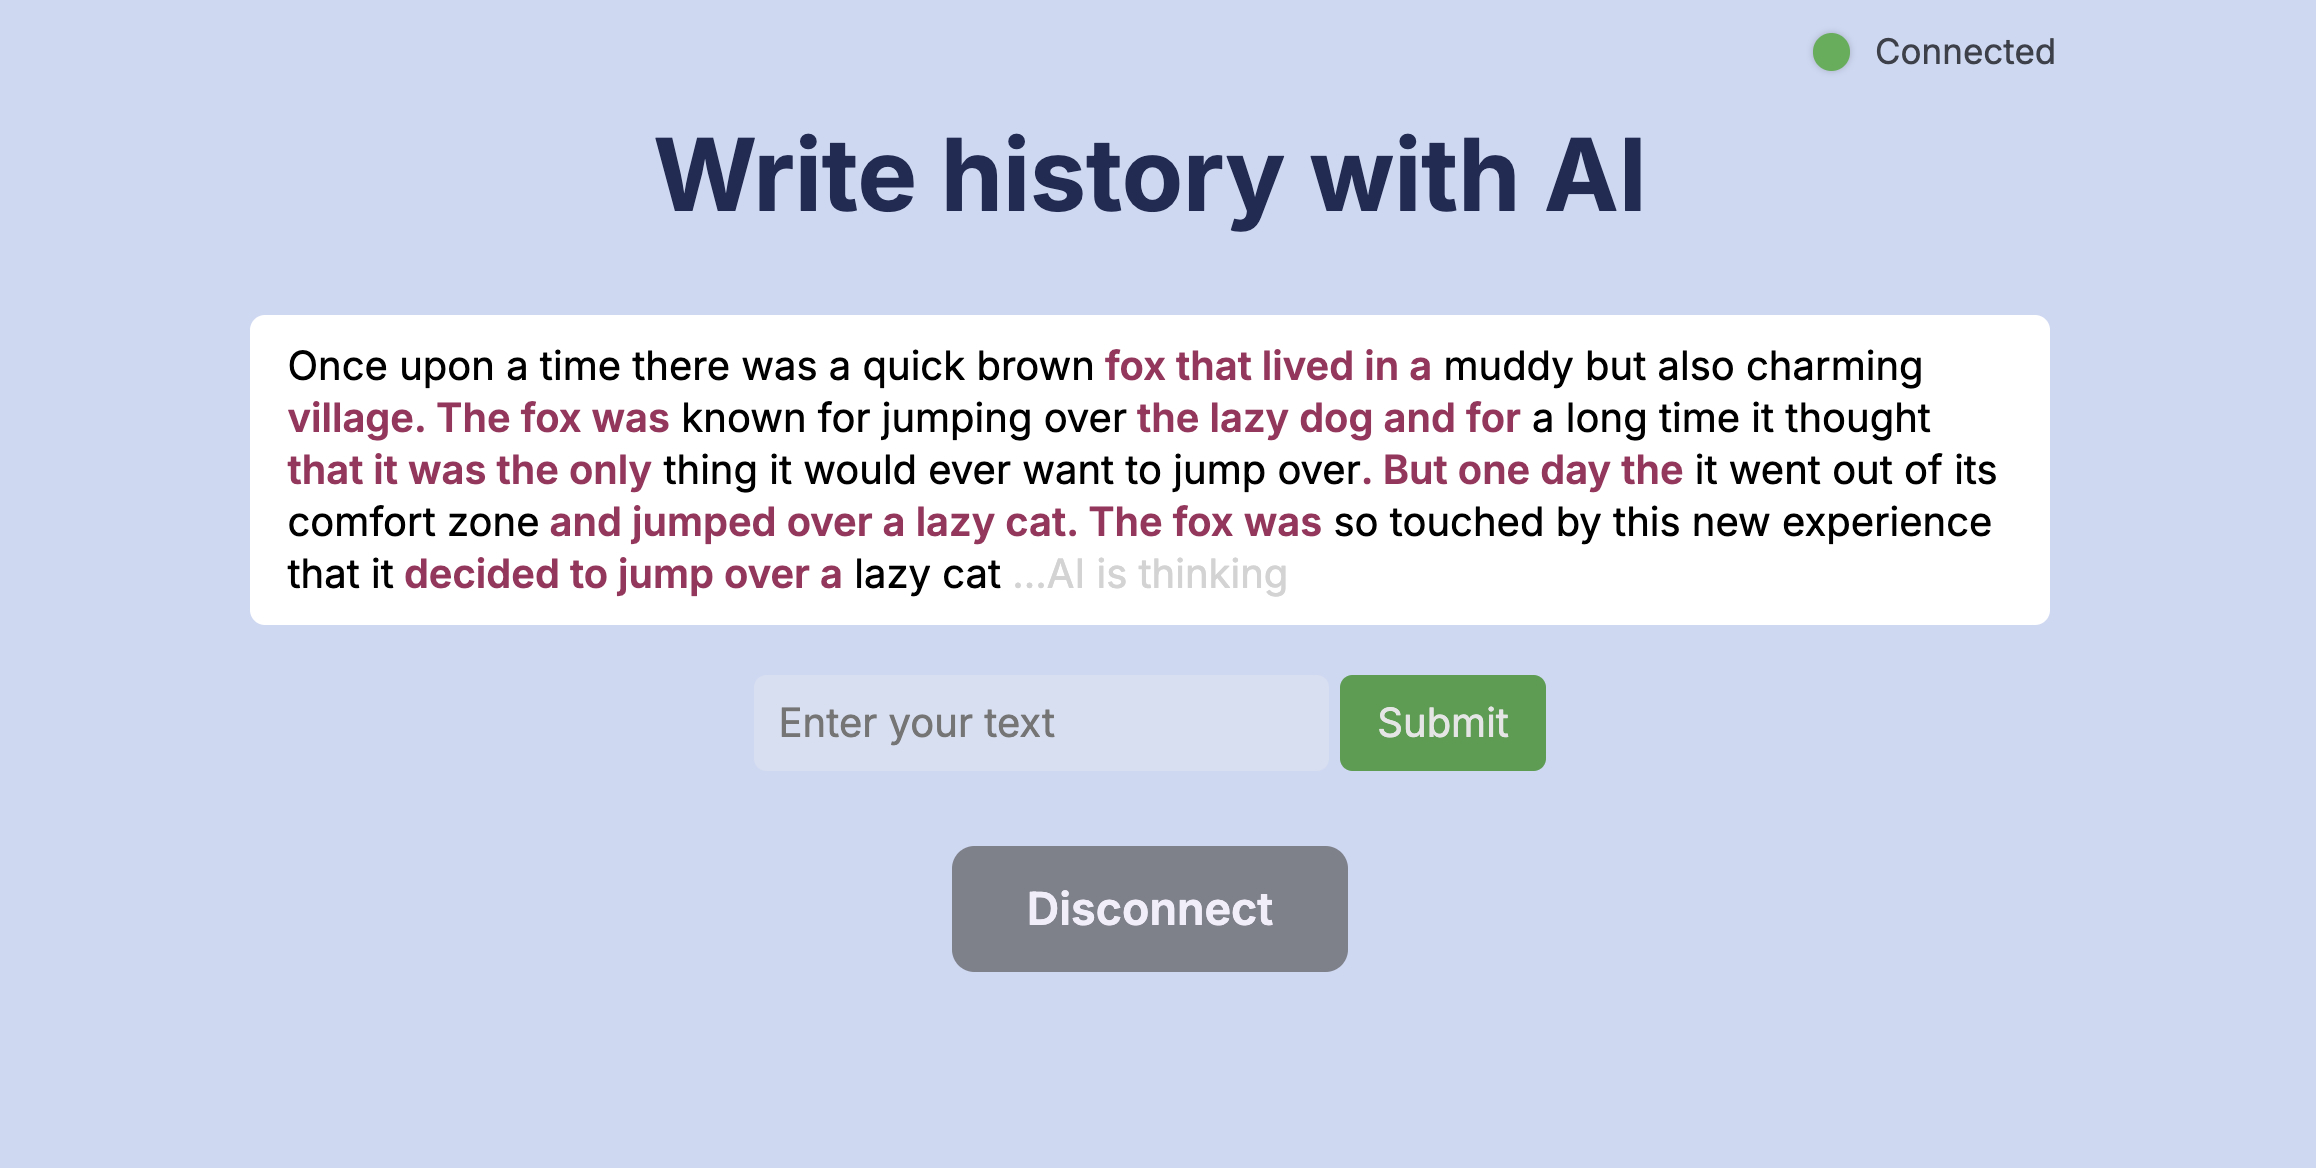
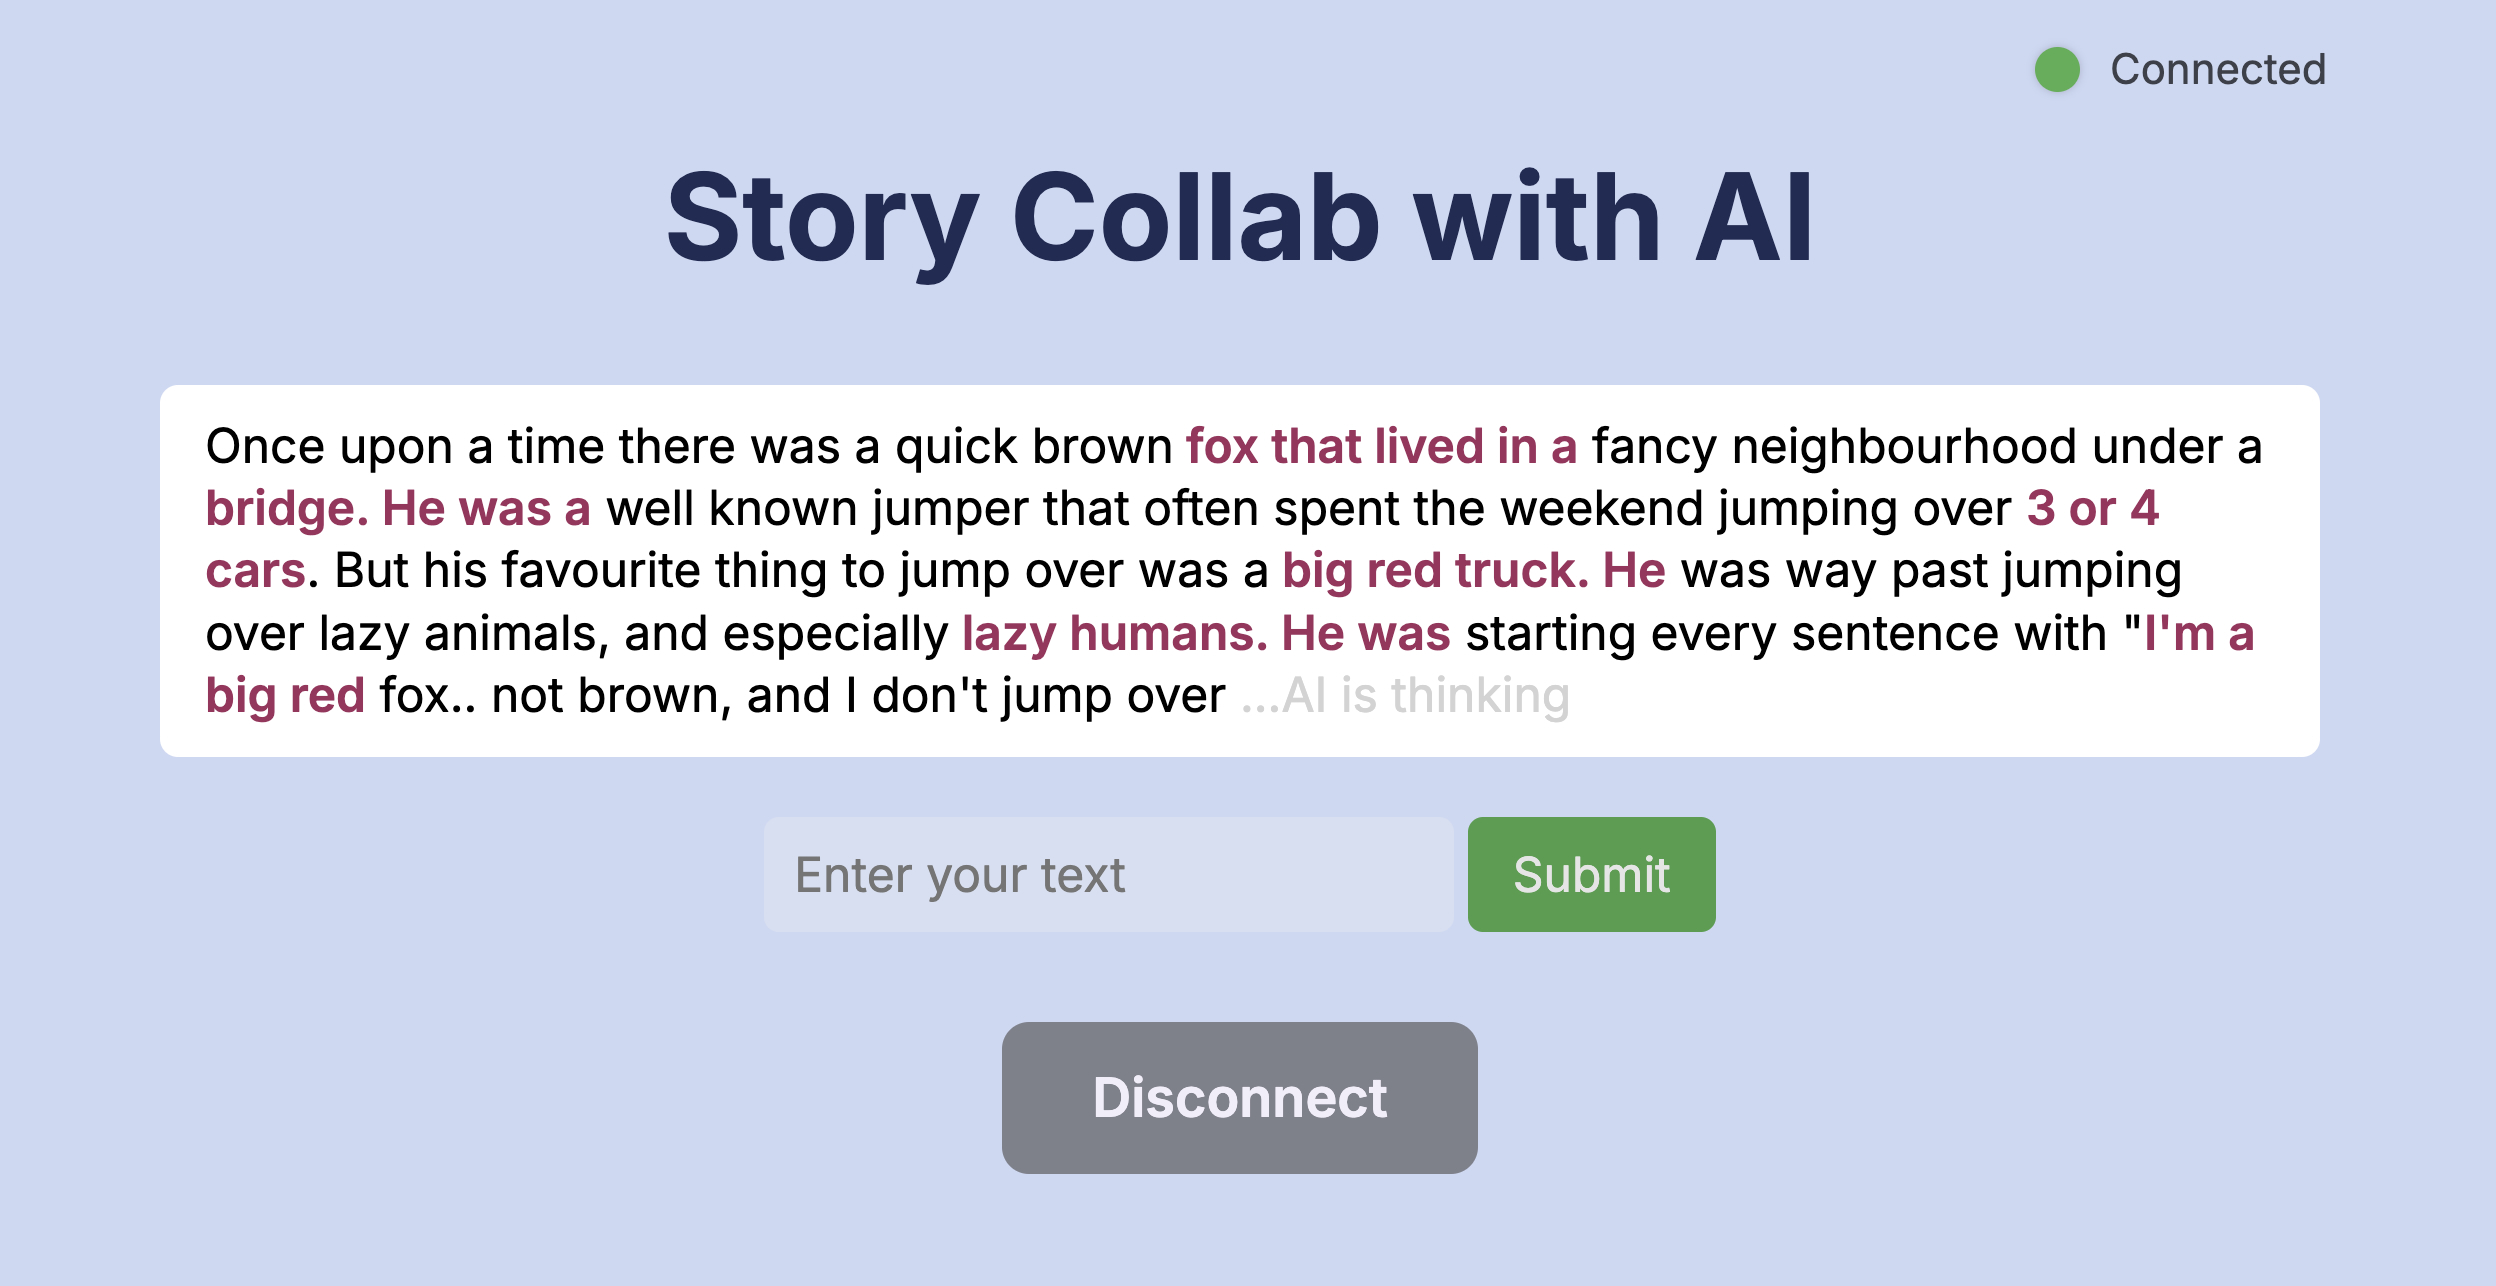
Change title and demo img

Changed region(s): [[0.0622, 0.2466, 0.9326, 0.9247], [0.2487, 0.1233, 0.7461, 0.2158], [0.7772, 0.0308, 0.9326, 0.0925]]

diff --git a/frontend/src/routes/+page.svelte b/frontend/src/routes/+page.svelte
@@ -61,7 +61,7 @@
 	<p class="status-text">{socketIsConnected ? 'Connected' : 'Disconnected'}</p>
 </div>
 
-<h1>Write history with AI</h1>
+<h1>Story Collab with AI</h1>
 
 <Button on:click={connectToWebsocket} hidden={socketIsConnected || socketConnecting} styleType="connect">
 	Connect
